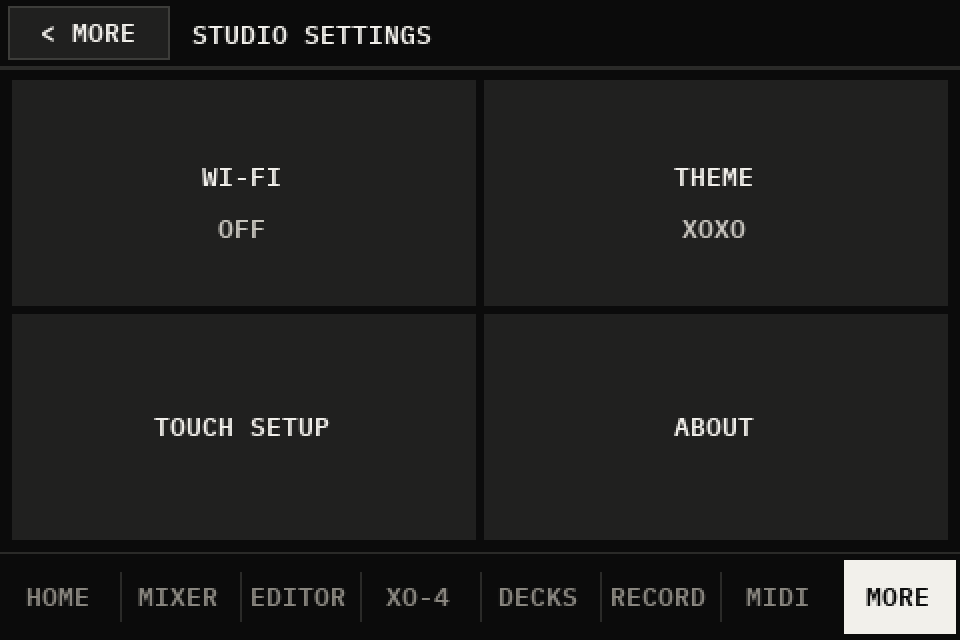
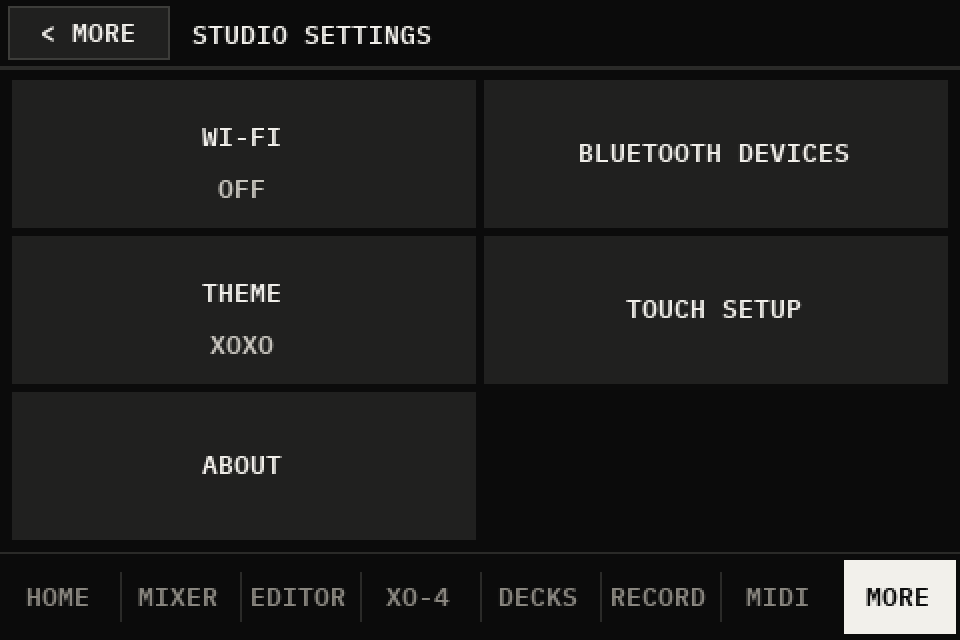
Bluetooth devices to forget; the speaker scan lists only what it hears; pairing no longer loses an AG-04
MORE > STUDIO SETTINGS > BLUETOOTH DEVICES (and Settings' "BT devices"): everything paired or connected
(speakers, saved Bluetooth MIDI keyboards, one BlueZ forgot too, phones or computers on Bluetooth MIDI),
connected first; tapped and held 2 s, one is forgotten: a keyboard through the MIDI side, anything else
unpaired, and the speaker the box reconnects to is no longer it. The speaker scan listed every speaker BlueZ
remembered (a JBL that was off); it now lists what bluetoothctl heard during it ([NEW], or a fresh RSSI).
Pairing removed the speaker and scanned 6 s each time, and an AG-04 that advertises now and then failed "Not
found" over and over; now removed only if paired already, scanned for (10 s) only if BlueZ no longer knows it.
README and the STUDIO SETTINGS picture updated.

Credits: BlueZ (bluetoothctl, GPL-2.0). Licence: GPL-3.0 (this repo).

Tested: on a PC, all 233 tests (each tests/test_*.py, test_desk and test_netmidi through pytest), three new:
the devices list and forgetting (a speaker, a keyboard, the hold), the scan's heard-only list, pairing's
remove and scan only when needed. On the Studio (Pi 3 B+, its own Bluetooth): the page looks right on its
screen (the user's report); the list's code over SSH showed the two paired speakers; the new scan listed an
AG-04 and a TV, not a JBL that was off; after installing, the app restarted and the AG-04 reconnected and
played.
[…]

diff --git a/tests/test_desk.py b/tests/test_desk.py
@@ -2488,3 +2488,131 @@ def test_editor_empty_file():
     ui = deskui.DeskUI(app, app.display)
     ed = {"x": np.zeros(0, dtype=np.float32), "rate": 48000, "seconds": 0.0}
     assert ui.editor_wave(ed, 0.0, 0.0) == [(0.0, 0.0)] * deskui.W and ed["peak"] == 1.0
+
+
+def test_bluetooth_devices_forget(monkeypatch):
+    """MORE > STUDIO SETTINGS > BLUETOOTH DEVICES: what Bluetooth has paired or connected (a speaker, a saved
+    keyboard, a phone on Bluetooth MIDI; not one a scan only saw), connected first; one forgotten held to confirm:
+    the speaker unpaired and no longer the one reconnected to, a keyboard through the MIDI side"""
+    import bridge
+    import deskui
+    infos = {"20:18:5B:EF:AA:B0": "\tAlias: JBL Go 3\n\tIcon: audio-card\n\tPaired: yes\n\tConnected: no\n"
+                                  "\tUUID: Audio Sink                (0000110b-0000-1000-8000-00805f9b34fb)",
+             "F0:5C:77:00:11:22": "\tAlias: KEY 25\n\tPaired: yes\n\tConnected: no",
+             "28:9E:F6:01:02:03": "\tAlias: Pat's iPhone\n\tPaired: no\n\tConnected: yes",
+             "AA:BB:CC:DD:EE:FF": "\tAlias: Somebody's TV\n\tPaired: no\n\tConnected: no"}
+    calls = []
+
+    def run(cmd, timeout=15, merge=True, clean=True):
+        calls.append(cmd)
+        if cmd[:2] == ["bluetoothctl", "devices"]:
+            return 0, "".join(f"Device {mac} {info.split(chr(10))[0].split(': ')[1]}\n" for mac, info in infos.items())
+        if cmd[:2] == ["bluetoothctl", "info"]:
+            return 0, infos[cmd[2]]
+        if cmd[:2] == ["bluetoothctl", "remove"]:
+            return 0, "Device has been removed"
+        return 0, ""
+    monkeypatch.setattr(bridge, "run", run)
+    known = bridge.bt_known([("F0:5C:77:00:11:22", "KEY 25"), ("C0:FF:EE:00:00:01", "Old keys")])
+    assert [(d["name"], d["kind"], d["connected"]) for d in known] == [   # (one BlueZ forgot: still listed)
+        ("Pat's iPhone", "other", True), ("JBL Go 3", "speaker", False), ("KEY 25", "keyboard", False),
+        ("Old keys", "keyboard", False)]
+
+    class Midi:
+        enabled, pairing_until, controllers = True, 0.0, []
+        ble_keys, forgot = [["F0:5C:77:00:11:22", "KEY 25", False]], []
+
+        def ble_forget(self, address):
+            self.forgot.append(address)
+    app = bridge.App(RgbCapture(), dict(bridge.DEFAULTS, last_mac="20:18:5B:EF:AA:B0", last_name="JBL Go 3"))
+    app.save_settings = lambda: None
+    app.midi = Midi()
+    app.job = lambda label, work: (lambda r: r[1] and app.say(r[1]))(work())   # (the job, at once)
+    said = []
+    app.say = lambda text, seconds=3: said.append(text)
+    ui = deskui.DeskUI(app, app.display)
+    ui.theme_check = 1e12
+    ui.open_tab("SETTINGS")
+    ui.render(0.0, force=True)
+    keys = {w[3]: w for w in ui.widgets}
+
+    def tap(key, hold=0.1):
+        box = keys[key][0]
+        ui.touch("down", box[0] + 2, box[1] + 2, 0.0)
+        ui.touch("up", box[0] + 2, box[1] + 2, hold)
+    tap(("more", "BLUETOOTH DEVICES"))
+    assert app.screen == "pick" and app.pick["title"] == "BT devices"
+    assert [i[:2] for i in app.pick["items"]] == [("Pat's iPhone", "phone etc, on"), ("JBL Go 3", "speaker"),
+                                                 ("KEY 25", "keyboard")]
+    app.pick["cursor"] = 1                            # the speaker: asked first, then forgotten
+    app.on_key("press")
+    assert app.screen == "confirm" and app.confirm["lines"][0] == "JBL Go 3"
+    assert not [c for c in calls if c[:2] == ["bluetoothctl", "remove"]]
+    app.on_key("press", True)
+    assert ["bluetoothctl", "remove", "20:18:5B:EF:AA:B0"] in calls
+    assert app.state["last_mac"] is None and not app.auto and said[-1] == "Forgot JBL Go 3"
+    app.open_bt_devices()                             # a keyboard: through the MIDI side, not bluetoothctl
+    app.pick["cursor"] = 2
+    app.on_key("press")
+    calls.clear()
+    app.on_key("press", True)
+    assert app.midi.forgot == ["F0:5C:77:00:11:22"] and not [c for c in calls if "remove" in c]
+    infos.clear()                                     # nothing paired: said, no empty list
+    app.midi.ble_keys = []
+    app.screen = "settings"
+    app.open_bt_devices()
+    assert app.screen == "settings" and said[-1] == "No Bluetooth devices"
+
+
+def test_speaker_scan_lists_only_heard(monkeypatch):
+    """the speaker scan lists what was heard during it ([NEW], or a fresh RSSI), not every device BlueZ remembers:
+    a paired JBL that's off was listed while the speaker being paired wasn't to be seen (2026-11-03)"""
+    import bridge
+    scan = ("Discovery started\n[CHG] Controller B8:27:EB:15:77:0A Discovering: yes\n"
+            "[CHG] Device 7C:64:56:3F:84:6B RSSI: 0xffffffbf (-65)\n"
+            "[CHG] Device 20:18:5B:EF:AA:B0 Connected: no\n"
+            "[NEW] Device 11:FF:27:5A:21:89 AG-04\n")
+    known = {"20:18:5B:EF:AA:B0": "JBL Go 3", "11:FF:27:5A:21:89": "AG-04", "7C:64:56:3F:84:6B": "[TV] Samsung"}
+
+    def run(cmd, timeout=15, merge=True, clean=True):
+        if "scan" in cmd:
+            return 0, scan
+        if cmd[:2] == ["bluetoothctl", "devices"]:
+            return 0, "".join(f"Device {mac} {name}\n" for mac, name in known.items())
+        if cmd[:2] == ["bluetoothctl", "info"]:
+            return 0, f"\tName: {known[cmd[2]]}\n\tIcon: audio-card\n\tPaired: no"
+        return 0, ""
+    monkeypatch.setattr(bridge, "run", run)
+    assert bridge.scan_seen(scan) == {"7C:64:56:3F:84:6B", "11:FF:27:5A:21:89"}
+    assert [d["name"] for d in bridge.bt_scan(1)] == ["[TV] Samsung", "AG-04"]
+
+
+def test_pairing_removes_and_scans_only_when_needed(monkeypatch):
+    """pairing a speaker: removed first only if it's paired already (a stale pairing), scanned for only if BlueZ
+    doesn't know it (an AG-04 that advertises now and then was removed, missed by the scan, "Not found" each time)"""
+    import bridge
+    state = {"info": "\tName: AG-04\n\tPaired: no"}
+    calls = []
+
+    def run(cmd, timeout=15, merge=True, clean=True):
+        calls.append(cmd[1:3] if cmd[1] != "--timeout" else ["scan"])
+        if cmd[:2] == ["bluetoothctl", "info"]:
+            return 0, state["info"]
+        if cmd[:2] == ["bluetoothctl", "remove"]:
+            state["info"] = "Device 11:FF:27:5A:21:89 not available"
+        if "pair" in cmd:
+            return 0, "Pairing successful"
+        if "connect" in cmd:
+            return 0, "Connection successful"
+        return 0, ""
+    monkeypatch.setattr(bridge, "run", run)
+    assert bridge.bt_pair("11:FF:27:5A:21:89")[0]
+    assert ["remove", "11:FF:27:5A:21:89"] not in calls and ["scan"] not in calls     # known, not paired: at once
+    calls.clear()
+    state["info"] = "Device 11:FF:27:5A:21:89 not available"                           # forgotten since the scan
+    bridge.bt_pair("11:FF:27:5A:21:89")
+    assert ["scan"] in calls and ["remove", "11:FF:27:5A:21:89"] not in calls
+    calls.clear()
+    state["info"] = "\tName: AG-04\n\tPaired: yes"                                     # stale: removed, seen again
+    bridge.bt_pair("11:FF:27:5A:21:89")
+    assert calls.index(["remove", "11:FF:27:5A:21:89"]) < calls.index(["scan"])

diff --git a/fm1-bt-bridge/bridge.py b/fm1-bt-bridge/bridge.py
@@ -228,16 +228,64 @@ def parse_devices(text):
     return found
 
 
+def scan_seen(text):
+    """bluetoothctl's scan output -> the addresses heard during it ([NEW], or a fresh RSSI)"""
+    found = re.findall(r"\[NEW\] Device ([0-9A-F:]{17})|\[CHG\] Device ([0-9A-F:]{17}) RSSI", text)
+    return {new or rssi for new, rssi in found}
+
+
 def bt_scan(seconds=SCAN_SECONDS):
-    bt("--timeout", str(seconds), "scan", "on", timeout=seconds + 10)
+    """the speakers (or, none, anything) heard during a scan: not every one BlueZ remembers (a paired speaker
+    that's off was listed, 2026-11-03)"""
+    _, heard = bt("--timeout", str(seconds), "scan", "on", timeout=seconds + 10)
+    seen = scan_seen(heard)
     _, out = bt("devices", timeout=5)
     devices = []
     for mac, name in parse_devices(out):
+        if mac not in seen:
+            continue
         info = parse_info(mac, bt("info", mac, timeout=5)[1])
         info.setdefault("name", name)
         devices.append(info)
     audio = [d for d in devices if is_audio(d)]
     return sorted(audio or devices, key=lambda d: d["name"].lower())
+
+
+BT_KINDS = {"speaker": "speaker", "keyboard": "keyboard", "other": "phone etc"}   # Bluetooth devices' rows
+
+
+def bt_known(keyboards=()):
+    """[{"mac", "name", "paired", "connected", "kind"}]: what Bluetooth (its default controller) has paired, or has
+    connected now: speakers and headphones ("speaker"), the saved Bluetooth MIDI keyboards (keyboards: [(address,
+    name)]; "keyboard", one BlueZ no longer knows too), anything else ("other": a phone or a computer on Bluetooth
+    MIDI). Connected first."""
+    _, out = bt("devices", timeout=5)
+    keys = {a.upper(): n for a, n in keyboards}
+    found = []
+    for line in out.splitlines():
+        m = re.match(r"\s*Device ([0-9A-F:]{17}) (.+)", line)
+        if not m:
+            continue
+        mac = m.group(1)
+        info = parse_info(mac, bt("info", mac, timeout=5)[1])
+        paired, connected = info.get("paired") == "yes", info.get("connected") == "yes"
+        if not (paired or connected or mac in keys):
+            continue                          # only seen by a scan: BlueZ forgets those by itself
+        kind = "speaker" if is_audio(info) else "keyboard" if mac in keys else "other"
+        found.append({"mac": mac, "name": info.get("alias") or info.get("name") or m.group(2).strip(),
+                      "paired": paired, "connected": connected, "kind": kind})
+    seen = {d["mac"].upper() for d in found}
+    found += [{"mac": a, "name": n, "paired": False, "connected": False, "kind": "keyboard"}
+              for a, n in keys.items() if a not in seen]
+    return sorted(found, key=lambda d: (not d["connected"], d["name"].lower()))
+
+
+def bt_forget(mac, name):
+    """unpair a device (and disconnect it) -> (ok, text)"""
+    code, out = bt("remove", mac, timeout=10)
+    if code == 0 or "removed" in out.lower():
+        return True, f"Forgot {name}"
+    return False, bt_error(out)
 
 
 def bt_error(out):
@@ -264,9 +312,13 @@ def bt_pair(mac):
     # bonding and forgets the keys on disconnect: be pairable just while pairing
     bt("pairable", "on", timeout=5)
     try:
-        bt("remove", mac, timeout=10)          # a stale, unbonded pairing would make "pair" a no-op
-        # BlueZ forgets unpaired devices about 30 s after a scan, and "remove" just did: see it again
-        bt("--timeout", "6", "scan", "on", timeout=16)
+        if "Paired: yes" in bt("info", mac, timeout=5)[1]:
+            bt("remove", mac, timeout=10)      # a stale, unbonded pairing would make "pair" a no-op
+        if "not available" in bt("info", mac, timeout=5)[1]:
+            # BlueZ forgets unpaired devices about 30 s after a scan (and "remove" just did): see it again. Not
+            # removed and scanned for each time: a speaker that advertises only now and then (an AG-04) was missed
+            # by a 6 s scan, and its pairing failed "Not found" every time (2026-11-03)
+            bt("--timeout", "10", "scan", "on", timeout=20)
         _, out = bt("--agent", "NoInputNoOutput", "pair", mac, timeout=40)
     finally:
         bt("pairable", "off", timeout=5)
@@ -1975,6 +2027,38 @@ class App(LibraryScreens, MeterScreens, MidiScreens, SampleEditor, WebLink):
 
         self.job("Connecting", work)
 
+    def open_bt_devices(self):
+        """Settings > BT devices: what Bluetooth has paired or connected (bt_known), each to forget"""
+        keys = [k[:2] for k in getattr(self.midi, "ble_keys", None) or []]
+
+        def work():
+            items = [(d["name"], BT_KINDS[d["kind"]] + (", on" if d["connected"] else ""), d)
+                     for d in bt_known(keys)]
+            self.open_pick("BT devices", items, self.forget_bt_device, "No Bluetooth devices")
+            return True, ""
+
+        self.job("Looking", work)
+
+    def forget_bt_device(self, device):
+        """held to confirm: a keyboard through the MIDI side (its saved list kept in step), anything else unpaired;
+        the speaker the box reconnects to is no longer it"""
+        def forget():
+            self.screen = "settings"
+            if device["kind"] == "keyboard" and self.midi:
+                self.midi.ble_forget(device["mac"])
+                self.say(f"Forgot {device['name']}", 2)
+                return
+            if device["mac"].upper() == (self.state.get("last_mac") or "").upper():
+                self.auto = False
+                self.state["last_mac"] = self.state["last_name"] = None
+                self.save_settings()
+            self.job("Forgetting", lambda: bt_forget(device["mac"], device["name"]))
+
+        lines = [device["name"], BT_KINDS[device["kind"]] + (", connected" if device["connected"] else "")]
+        if device["kind"] == "speaker":
+            lines.append("Pair it again to use it")
+        self.ask("Forget?", lines, forget)
+
     def disconnect(self):
         if not self.state["last_mac"]:
             return
@@ -2058,7 +2142,7 @@ class App(LibraryScreens, MeterScreens, MidiScreens, SampleEditor, WebLink):
                     ("routes", "MIDI routes", "›"), ("presets", "Route presets", "›")]
         return [("g_play", "Playing", "›"), ("g_audio", "Audio", "›"), ("g_midi", "MIDI", "›"),
                 ("recording", "Recordings", "›"), ("editor", "Sample editor", "›"), ("sd", "Import SD card", ""),
-                ("wifi", "Wi-Fi", wifi)]
+                ("wifi", "Wi-Fi", wifi), ("btdevices", "BT devices", "›")]
 
     def change_setting(self):
         key = self.settings_rows()[self.setting][0]
@@ -2066,6 +2150,8 @@ class App(LibraryScreens, MeterScreens, MidiScreens, SampleEditor, WebLink):
             self.settings_menu, self.setting = GROUPS[key][0], 0
         elif key in LIBRARY_KEYS:
             self.library_choose(key)
+        elif key == "btdevices":
+            self.open_bt_devices()
         elif key == "speaker" or (key == "audio" and not self.state["last_mac"]):
             self.start_scan()                 # pick and pair a speaker or headphones
         elif key == "audio":

diff --git a/fm1-bt-bridge/deskui.py b/fm1-bt-bridge/deskui.py
@@ -44,8 +44,8 @@ DAW_KEYS = [("<<", "rewind"), (">>", "forward"), ("STOP", "stop"), ("PLAY", "pla
             ("LOOP", "loop")]
 MORE = [("PLAYING", ("menu", "play")), ("AUDIO", ("menu", "audio")), ("MIDI SETTINGS", ("menu", "midi")),
         ("PLUG-INS", ("plugins", None)), ("STUDIO SETTINGS", ("settings", None)), ("SHUT DOWN", ("off", None))]
-STUDIO_SETTINGS = [("WI-FI", ("wifi", None)), ("THEME", ("theme", None)), ("TOUCH SETUP", ("calibrate", None)),
-                   ("ABOUT", ("about", None))]     # MORE > STUDIO SETTINGS: the box's own settings
+STUDIO_SETTINGS = [("WI-FI", ("wifi", None)), ("BLUETOOTH DEVICES", ("row", "btdevices")), ("THEME", ("theme", None)),
+                   ("TOUCH SETUP", ("calibrate", None)), ("ABOUT", ("about", None))]     # MORE > STUDIO SETTINGS: the box's own settings
 HIDDEN_METERS = ("Tuner",)                      # meters the Studio leaves out (the Pocket keeps all eleven)
 
 

diff --git a/tests/test_libui.py b/tests/test_libui.py
@@ -128,7 +128,8 @@ def test_flows():
     app = make_app()
     keys(app, "right")
     top = [r[0] for r in app.settings_rows()]
-    assert app.screen == "settings" and top == ["g_play", "g_audio", "g_midi", "recording", "editor", "sd", "wifi"]
+    assert app.screen == "settings" and top == ["g_play", "g_audio", "g_midi", "recording", "editor", "sd", "wifi",
+                                                   "btdevices"]
     keys(app, "press")                                     # Playing ›
     assert app.settings_menu == "play" and [r[0] for r in app.settings_rows()] == [
         "metronome", "tempo", "clock", "arp_on", "chord_on", "click"]

diff --git a/README.md b/README.md
@@ -157,7 +157,7 @@ Routes between Bluetooth MIDI, each USB MIDI device, network MIDI (a DAW) and th
 
 ### MORE and STUDIO SETTINGS
 
-**MORE:** PLAYING, AUDIO and MIDI settings, PLUG-INS (the plug-in host, tested on a PC only: plug-ins themselves are separate projects, such as the FM-1 Companion plug-in, and none ships with this beta), STUDIO SETTINGS and SHUT DOWN (not yet tried from the screen). **STUDIO SETTINGS:** Wi-Fi, the theme, the touch setup, and ABOUT (the version, and QR codes for a phone: the Studio's code on GitHub, the XOXO Audio Labs website, and this Studio's web app at its address on the network now).
+**MORE:** PLAYING, AUDIO and MIDI settings, PLUG-INS (the plug-in host, tested on a PC only: plug-ins themselves are separate projects, such as the FM-1 Companion plug-in, and none ships with this beta), STUDIO SETTINGS and SHUT DOWN (not yet tried from the screen). **STUDIO SETTINGS:** Wi-Fi, BLUETOOTH DEVICES (everything paired or connected: speakers, saved Bluetooth MIDI keyboards, phones or computers on Bluetooth MIDI; tap one and hold 2 s to forget it), the theme, the touch setup, and ABOUT (the version, and QR codes for a phone: the Studio's code on GitHub, the XOXO Audio Labs website, and this Studio's web app at its address on the network now).
 
 | | |
 |---|---|
@@ -233,6 +233,8 @@ Routes between Bluetooth MIDI, each USB MIDI device, network MIDI (a DAW) and th
 - the screen's `xoxo35` overlay (2026-11-02, the Hosyond 3.5" on the Pi 3 B+): with `piscreen`'s start-up the backlight showed through and the blacks were washed out; with the maker's the blacks are blacker and the near-black steps of a test card (8, 16, 24 of 255) still show (the user's report). The Studio starts and draws with it. VCOM tried live from 0x91 down to 0x4A; the maker's 0x91 kept. `config/xoxo35.sh` made the same overlay byte for byte on the Pi. Not yet checked: touch with it; `install.sh` making it on a fresh install, or switching a box set up with `piscreen`
 - the beta's version and MORE > ABOUT (2026-11-03, the Pi 3 B+): ABOUT's WEB APP code scanned with a phone opens the Studio's web app (the user's report); all three codes decode to their addresses (read back from the drawn page on a PC with OpenCV). Not yet seen on the Studio: the boot screen's new version line (drawn on a PC only); THE CODE needs the GitHub repo public to open for others
 - MORE > STUDIO SETTINGS (2026-11-03, the Pi 3 B+): Wi-Fi, the theme, the touch setup and ABOUT moved there, used on the Studio's screen (the user's report)
+- the speaker scan and pairing (2026-11-03, the Pi 3 B+ on its own Bluetooth): the scan list showed every speaker the Pi had ever paired, a JBL that was off among them; it now lists only what was heard during the scan (the scan code run on the Studio over SSH: an AG-04 and a TV listed, the JBL that was off not). Pairing removed the speaker and looked for it again for 6 s each time, and an AG-04 that advertises only now and then failed "Not found" over and over; now a speaker is removed first only if it was paired already, and looked for (10 s) only if the Pi no longer knows it. The AG-04 then paired and played (it paired during the user's tries, before this fix was installed). Tested on a PC; not yet: a pairing on the Studio with the fix
+- BLUETOOTH DEVICES (2026-11-03, the Pi 3 B+ on a UB500): its list read on the Studio (the code the page runs, over SSH): two speakers paired, the one playing marked connected. the page on the Studio's screen looks right (the user's report). Forgetting tested on a PC only (a speaker, a keyboard, the hold to confirm); nothing forgotten on the Studio yet
 - the web app on a phone (2026-11-03): the MIDI routes' grid fits across the phone's screen with every destination (the user's report; checked at 375 px wide in a browser too, every tab with nothing wider than the screen)
 - the web app's Settings tab (2026-11-03, the Pi 3 B+, at 375 px wide in a browser): the clock, audio, Studio link, screen, About and Software sections show the Studio's settings as they are; the seven tabs fit across; Status keeps what's played with. From a phone, the theme and Latency changed from the page: "works well" (the user's report). Not yet tried from the page: USB out, the link's settings
 - updating from the web app (2026-11-03, the Pi 3 B+): `install.sh` run by hand installed `fm1-update` and its sudoers line (the sudoers file checked by `visudo`); then `fm1-update` installed this code from a local release file, as root for the user, as the web app's update does: `config.txt` and `cmdline.txt` unchanged (their checksums), no file in the user's folders left owned by root, the app and the web page running again. Settings > Software shows v0.1 installed and, with the repository private and untagged, "no releases on GitHub yet". Not yet tried: an update from GitHub (needs the repository public and a newer tag), the hold-press on the screen starting one, the put-back when a new version doesn't start (tested on a PC only)
